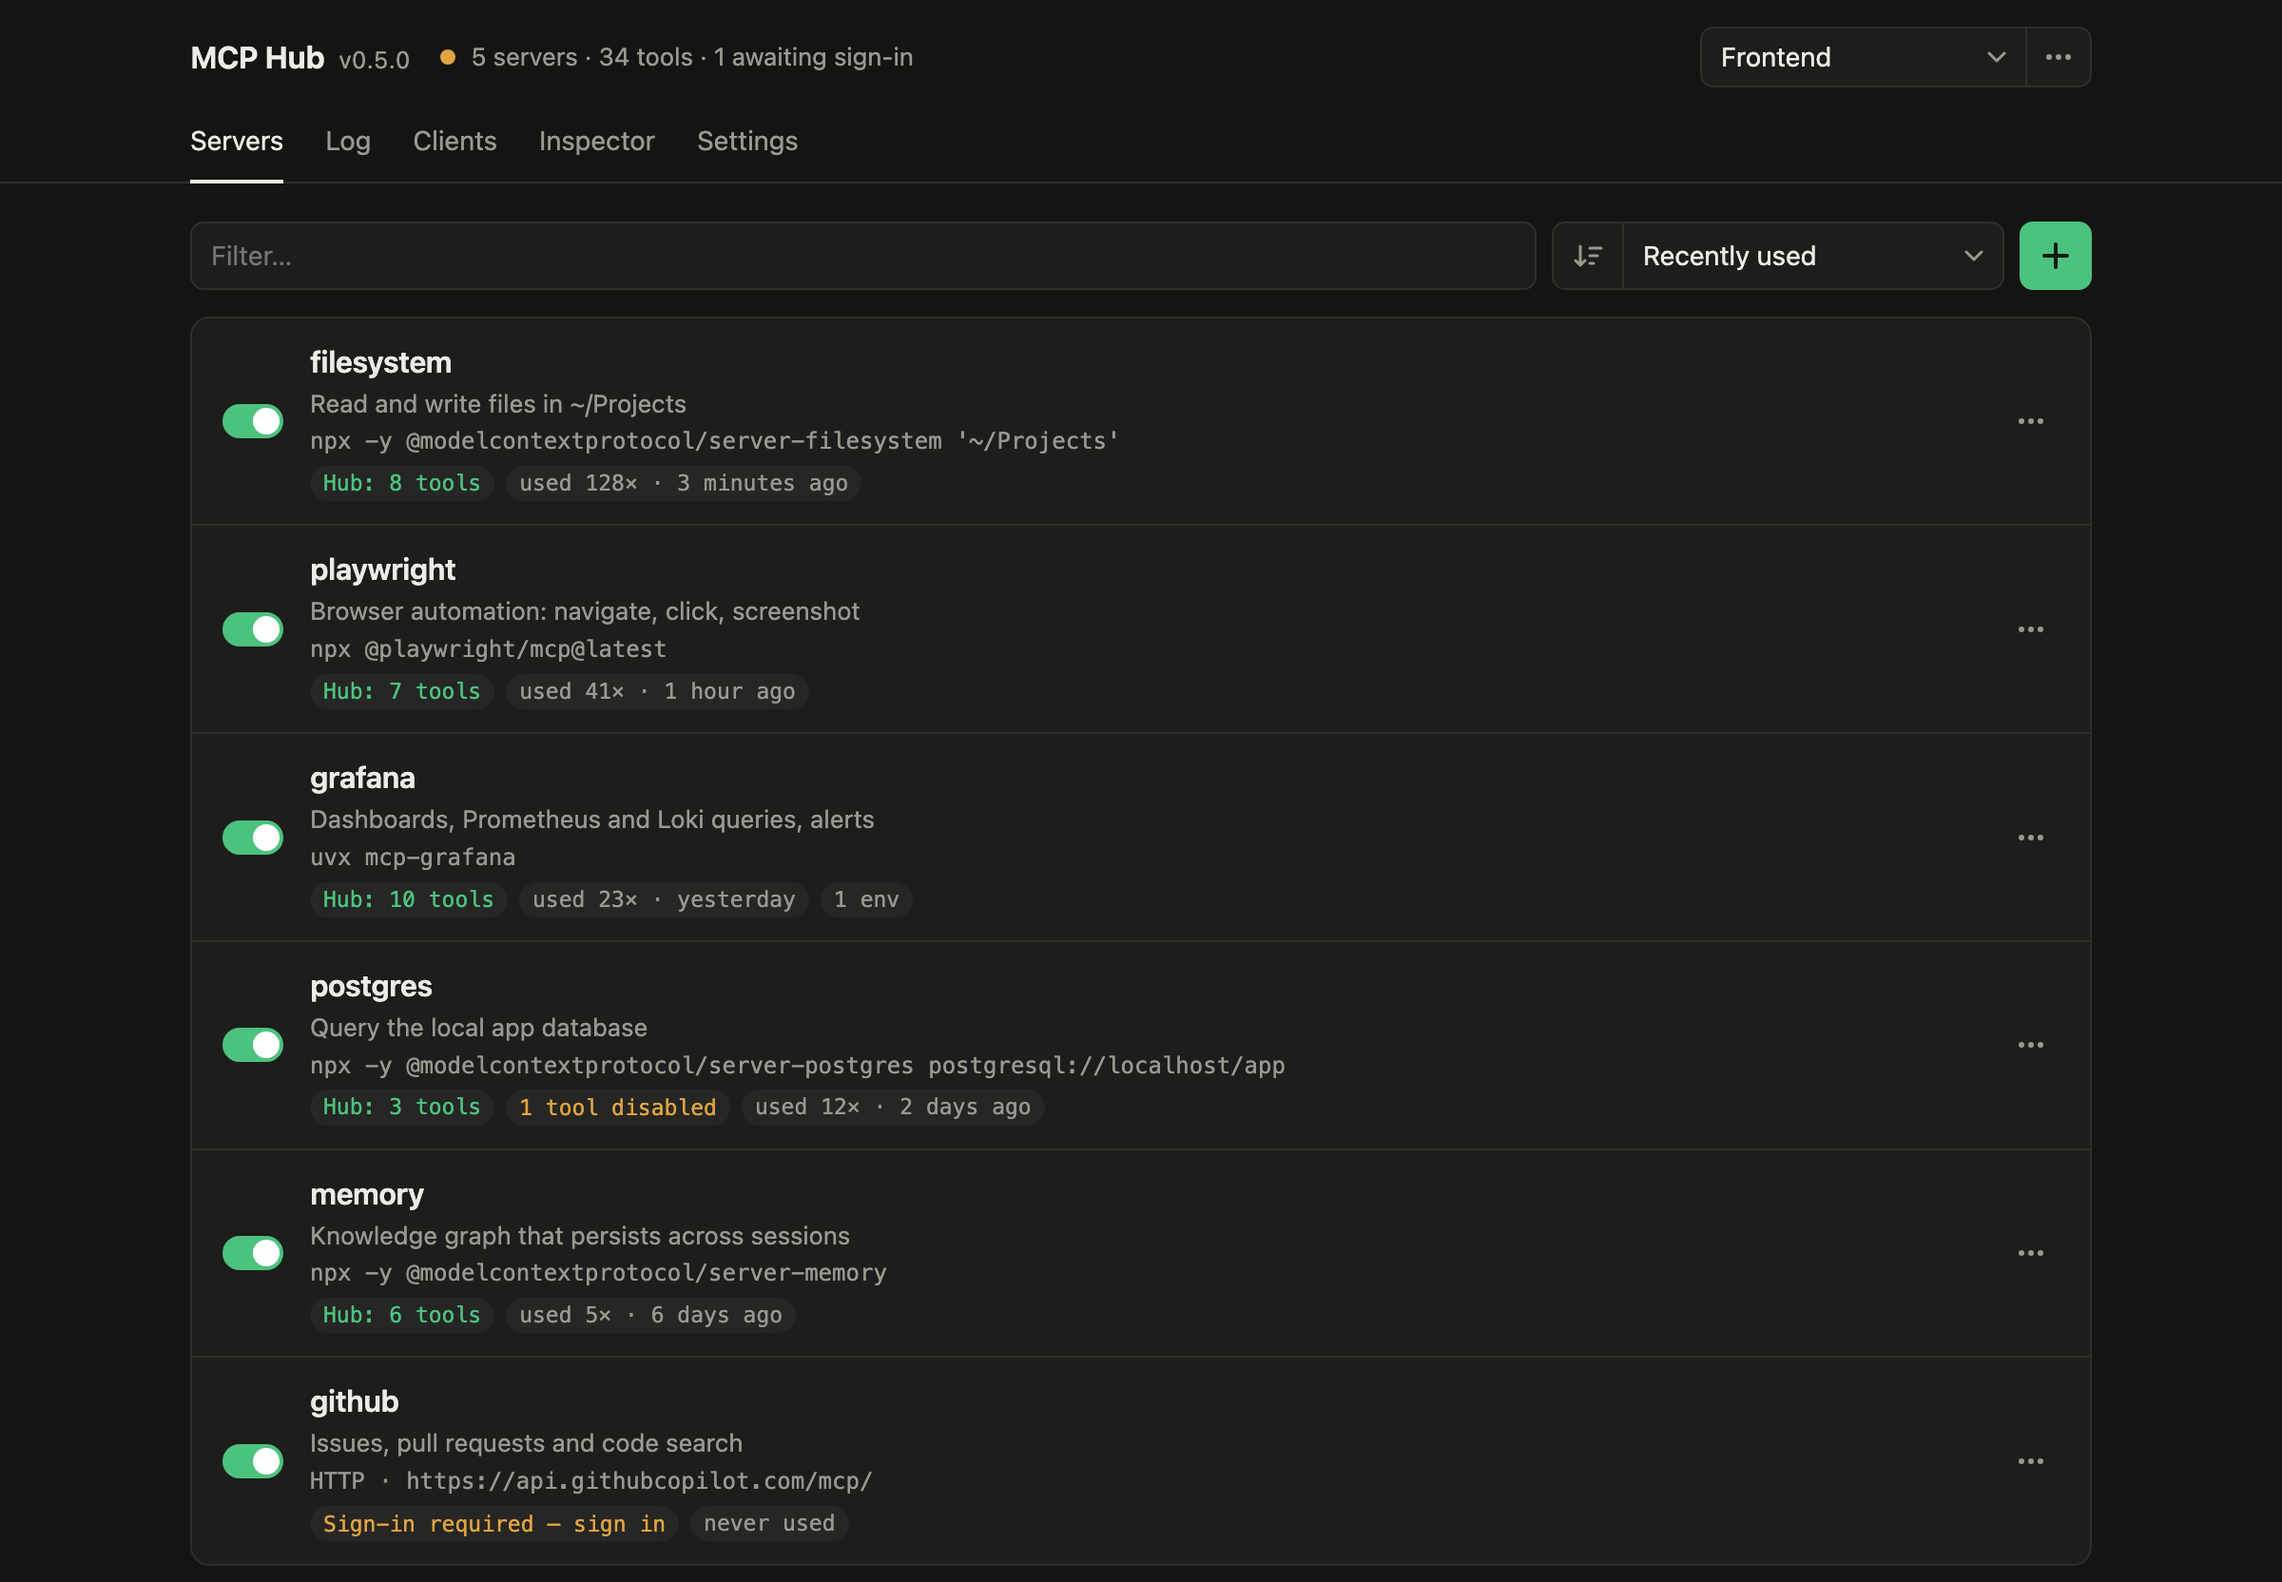
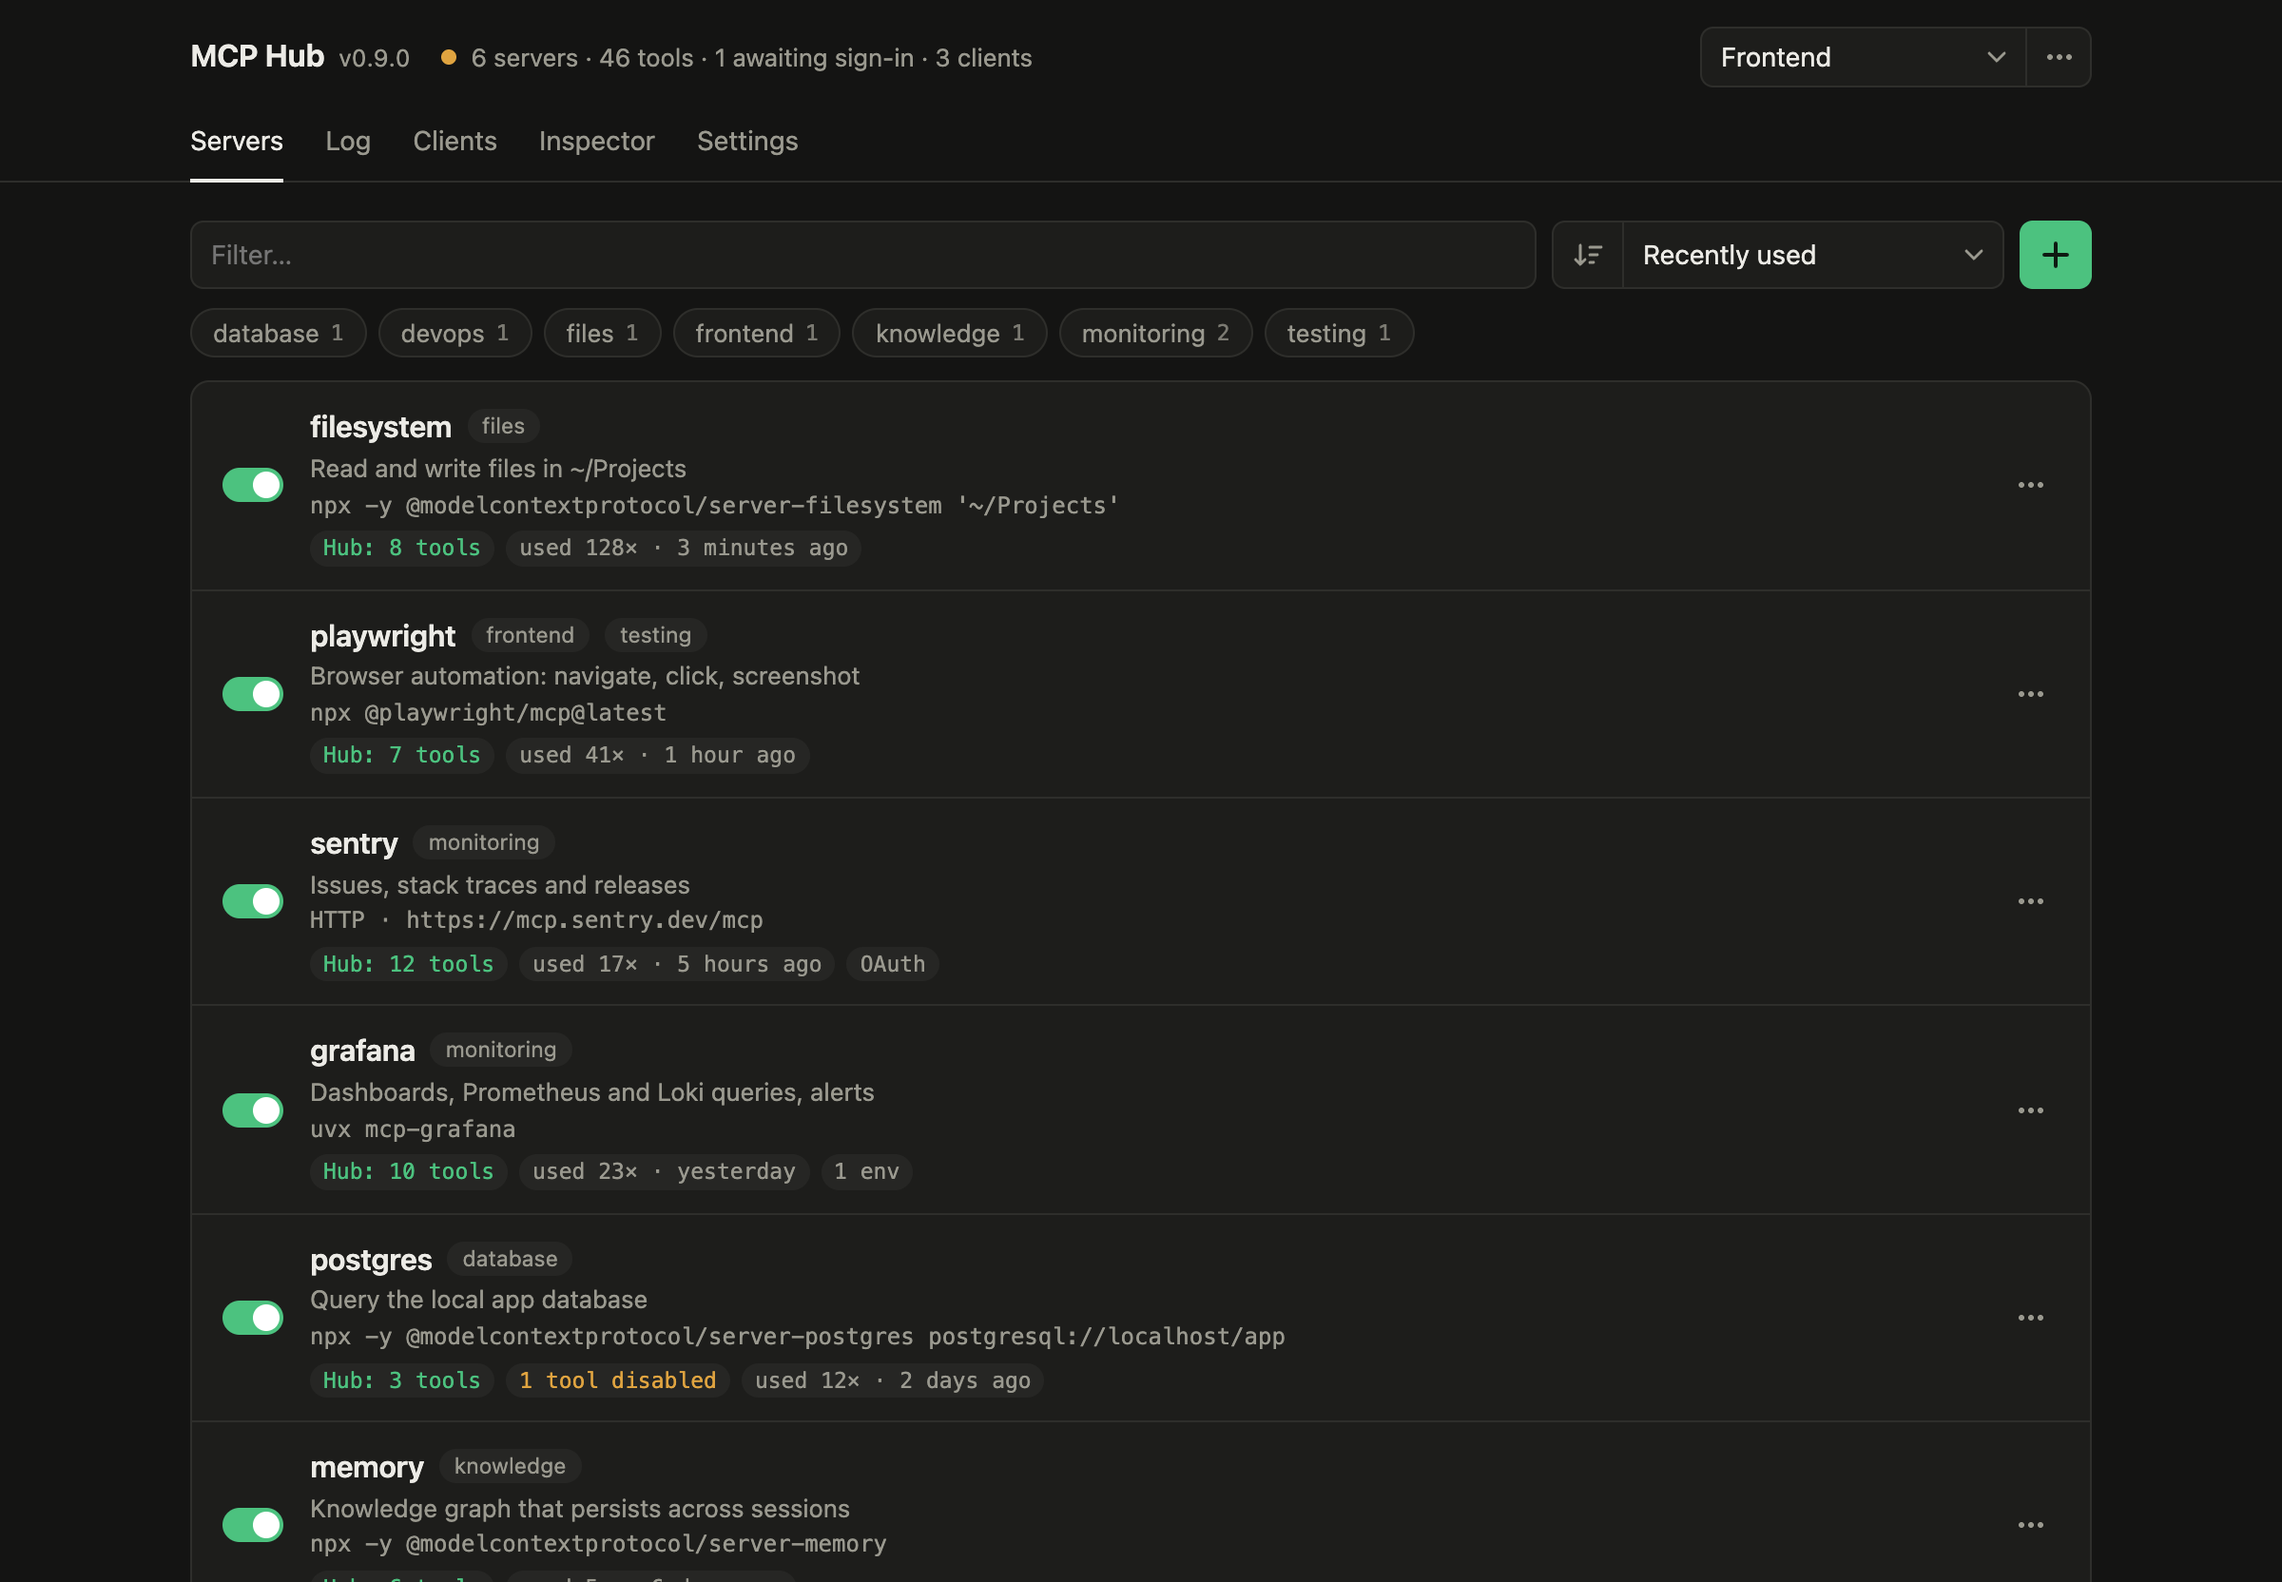
📝 docs: bring the README, screenshots and social preview up to v0.9.0

diff --git a/README.md b/README.md
@@ -26,7 +26,7 @@ MCP Hub turns that around: servers live in one place, secrets stay in the keycha
 - **One endpoint for every client:** stdio, Streamable HTTP and SSE servers bundled at `http://127.0.0.1:4747/mcp`, tool names prefixed `server__tool`.
 - **Connect and import with a click:** add the hub to Claude Code, Claude Desktop, Codex, Cursor, VS Code or Copilot CLI, and move their existing servers over (JSON, Codex TOML, `mcp add` commands).
 - **Compact mode:** clients get `search_tools`, `describe_tool` and `call_tool` instead of every definition, about 300 instead of 60,000 tokens with 200 tools.
-- **Profiles:** switch between setups in one click, or give each client its own profile endpoint.
+- **Profiles and tags:** switch between setups in one click, give each client its own profile endpoint, and tag servers by topic to filter the list.
 - **Secrets without plain text:** `${keychain:…}`, `${op://…}` (1Password) and `${env:…}` references, plus OAuth for remote servers with tokens in the keychain.
 - **Inspector, call log and statistics:** call any tool by hand, see every call with client, duration and result.
 - **Runs itself:** crashed servers restart with growing delays, live `list_changed` notifications, updates with one click, autostart at login.
@@ -56,7 +56,7 @@ Then open the GUI at http://127.0.0.1:4747. The hub endpoint for your clients is
 
 **2. Add servers** – click **+** → “Import…” and pick an installed client to take over its servers, or paste an existing configuration: JSON from Claude Desktop, Claude Code, Cursor or VS Code, TOML from Codex, or `claude mcp add` / `codex mcp add` commands (see [Importing](#importing)). “Add server…” creates one by hand.
 
-**3. Connect your clients** – Settings → “Connect clients” adds the hub to each installed client with one click. By hand, each client only needs this one entry, see [Connecting clients](#connecting-clients):
+**3. Connect your clients** – Settings → Clients → “Connect clients” adds the hub to each installed client with one click. By hand, each client only needs this one entry, see [Connecting clients](#connecting-clients):
 
 ```bash
 claude mcp add --scope user --transport http mcp-hub http://127.0.0.1:4747/mcp
@@ -170,7 +170,7 @@ The notation alone decides the source, per value. There is no setting and no fal
 - `${keychain:name}` reads the keychain: on macOS the login keychain (account `mcp-hub`, service `mcp-hub/<name>`; searching for `mcp-hub` in Keychain Access lists all entries), on Linux the Secret Service with the attributes `service mcp-hub/<name>` and `account mcp-hub` (visible in Seahorse or KWallet). The easiest way is the lock next to a value in the editor: it creates the entry and replaces the value with the reference; nothing is written to the file until you click “Save”. By hand on macOS: `security add-generic-password -a mcp-hub -s mcp-hub/<name> -w` (printable ASCII values only; `security` returns anything else as hex). On Linux: `secret-tool store --label="MCP Hub: <name>" service mcp-hub/<name> account mcp-hub`. On Windows the entries are generic credentials named `mcp-hub/<name>` in the Credential Manager (“Windows Credentials”); values over 2 KB are split into `mcp-hub/<name>#1`, `#2` and so on.
 - `${op://vault/item/field}` reads via the 1Password CLI (`op read`). `op` must be signed in within the hub’s environment, e.g. through the 1Password app integration. The hub never writes to 1Password; the lock always writes to the keychain. Useful for tokens that are already maintained, shared or rotated in 1Password; otherwise the keychain is simpler.
 - References may be part of a longer value, such as `Bearer ${keychain:…}` or `?key=${keychain:…}`.
-- Resolved values stay in memory until the hub restarts. After changing a value in the keychain or 1Password, restart the hub (e.g. `./autostart.sh restart`); switching the server off and on is not enough. Only the lock in the GUI refreshes its own entry immediately.
+- Resolved values stay in memory until the hub restarts. After changing a value in the keychain or 1Password, restart the hub (Settings → Server → “Restart hub”, or `./autostart.sh restart`); switching the server off and on is not enough. Only the lock in the GUI refreshes its own entry immediately.
 - If an entry is missing, the server does not start. The tooltip on the status chip then shows e.g. “Secret: No keychain entry …”.
 
 With `passEnvironment` (Settings), local servers inherit the hub’s environment; otherwise they only get `env`.
@@ -204,7 +204,7 @@ In the GUI, the “Compact mode” switch in the hub endpoint card (Settings) ch
 
 ### Connecting clients
 
-**By click:** Settings → “Connect clients” lists Claude Code, Claude Desktop, Codex, Cursor, VS Code and Copilot CLI with the configuration file the hub found for each, and whether the hub is already in it. “Connect” adds the hub (with the compact URL when the compact switch is on), “Disconnect” removes it, and a connected client can be switched between compact and all tools. Before every change the hub writes a backup next to the file (`<file>.mcp-hub-<date>-<time>.bak`, the last five are kept). Claude Code is changed through `claude mcp add/remove --scope user`, so the `claude` command must be on the hub’s `PATH`; Claude Desktop gets the `bridge.py` entry and needs a restart afterwards. JSON files with comments are left alone; edit those by hand.
+**By click:** Settings → Clients → “Connect clients” lists Claude Code, Claude Desktop, Codex, Cursor, VS Code and Copilot CLI with the configuration file the hub found for each, and whether the hub is already in it. “Connect” adds the hub (with the compact URL when the compact switch is on), “Disconnect” removes it, and a connected client can be switched between compact and all tools. Before every change the hub writes a backup next to the file (`<file>.mcp-hub-<date>-<time>.bak`, the last five are kept). Claude Code is changed through `claude mcp add/remove --scope user`, so the `claude` command must be on the hub’s `PATH`; Claude Desktop gets the `bridge.py` entry and needs a restart afterwards. JSON files with comments are left alone; edit those by hand.
 
 | Client | File |
 | --- | --- |
@@ -287,7 +287,7 @@ When the GUI opens, the hub asks GitHub for the latest release of `endorfin/mcp-
 
 Afterwards the hub stops its servers and restarts itself in the same process, so prun, launchd or a terminal session keep running it. Connected clients initialize again on their own; the GUI reloads once the new version answers.
 
-The check is the only request the hub sends on its own. Turn it off in the settings (“Check GitHub for new versions”); “Check now” runs it manually.
+The check is the only request the hub sends on its own. Turn it off in the settings (“Check GitHub for new versions”); “Check now” runs it manually and turns into “Update” when a newer version is available, opening the same dialog as the chip.
 
 ## GUI
 
@@ -299,7 +299,7 @@ Design rules and components of the interface are documented in [DESIGN.md](DESIG
 - **Inspector:** connects directly to a server (independent of the hub) and lists tools, resources, templates and prompts. Everything can be called with form or JSON input; stderr and notifications appear below.
 - **Settings:** grouped by topic with a list on the left. *Clients* has three cards: the hub endpoint with the compact switch, “Connect clients”, and “Set up by hand” with snippets for Claude Code, Claude Desktop, Codex and Copilot / VS Code. *Server* holds the path to the server file, `passEnvironment` and “Restart hub” (for example after a manual `git pull`), *Updates* the update check, *Interface* the language and the appearance (system, light or dark).
 
-**Language:** English or German, chosen under Settings → Language. “Automatic (browser)” follows the browser language. The choice is stored in `gui-settings.json`; it also decides the language of the OAuth return page.
+**Language:** English or German, chosen under Settings → Interface. “Automatic (browser)” follows the browser language. The choice is stored in `gui-settings.json`; it also decides the language of the OAuth return page.
 
 ### Profiles
 
@@ -378,7 +378,7 @@ The hub identifies the client from `clientInfo` during `initialize` and assigns 
 python3 -m unittest discover -s tests -v
 ```
 
-`tests/test_importer.py` covers the import parser (JSON variants, Codex TOML, `mcp add` commands). `tests/test_integrations.py` covers connecting, switching and disconnecting clients in a temporary home folder (JSON clients, the Codex TOML with subtables and quoted names, refusing files with comments or inline tables), plus exporting and removing their servers. `tests/test_compact.py` covers the compact mode search (ranking, prefixes, filler words, server filter). `tests/test_updater.py` covers the update check against a fake GitHub API, the fast-forward of a git checkout (and refusing one with local changes or commits) and installing a release archive, including rejecting unsafe archive paths. The other tests start their own hub with its own configuration folder on a free port and two instances of a small stdio server (`tests/dummy_server.py`). They cover prefixes and titles, sessions (404 after ending), restarting a crashed server and the restart delays, starting switched-off servers on demand for a profile endpoint, the bridge including a hub restart, routing and logging, errors, `disabledTools`, profiles including profile endpoints, notifications, origin protection, statistics and (macOS only) keychain resolution, plus the complete OAuth flow against a test provider (`tests/dummy_oauth_server.py`: sign-in, refreshing an expired token, sign-out; once with automatic registration, once with a fixed client ID and secret). Your real configuration stays untouched; the keychain tests create `mcp-hub/selftest/hub-tests` and `mcp-hub/oauth/selftest-oauth` and delete them again. Without a usable keychain (no Secret Service on Linux, for example) those tests are skipped. GitHub Actions runs the suite on macOS, Ubuntu and Windows with Python 3.11 and 3.13, with a temporary keychain on macOS, GNOME Keyring on Ubuntu and the Credential Manager on Windows, so the keychain and OAuth tests run everywhere; on Windows it also registers and removes the scheduled task.
+`tests/test_importer.py` covers the import parser (JSON variants, Codex TOML, `mcp add` commands). `tests/test_integrations.py` covers connecting, switching and disconnecting clients in a temporary home folder (JSON clients, the Codex TOML with subtables and quoted names, refusing files with comments or inline tables), plus exporting and removing their servers. `tests/test_compact.py` covers the compact mode search (ranking, prefixes, filler words, server filter). `tests/test_updater.py` covers the update check against a fake GitHub API, the fast-forward of a git checkout (and refusing one with local changes or commits) and installing a release archive, including rejecting unsafe archive paths. The other tests start their own hub with its own configuration folder on a free port and two instances of a small stdio server (`tests/dummy_server.py`). They cover prefixes and titles, validating server entries (including tags) and that changing tags or the description restarts nothing, sessions (404 after ending), restarting a crashed server and the restart delays, starting switched-off servers on demand for a profile endpoint, the bridge including a hub restart, restarting the hub through `/api/restart` (not on Windows), routing and logging, errors, `disabledTools`, profiles including profile endpoints, notifications, origin protection, statistics and (macOS only) keychain resolution, plus the complete OAuth flow against a test provider (`tests/dummy_oauth_server.py`: sign-in, refreshing an expired token, sign-out; once with automatic registration, once with a fixed client ID and secret). Your real configuration stays untouched; the keychain tests create `mcp-hub/selftest/hub-tests` and `mcp-hub/oauth/selftest-oauth` and delete them again. Without a usable keychain (no Secret Service on Linux, for example) those tests are skipped. GitHub Actions runs the suite on macOS, Ubuntu and Windows with Python 3.11 and 3.13, with a temporary keychain on macOS, GNOME Keyring on Ubuntu and the Credential Manager on Windows, so the keychain and OAuth tests run everywhere; on Windows it also registers and removes the scheduled task.
 
 ## Troubleshooting
 
